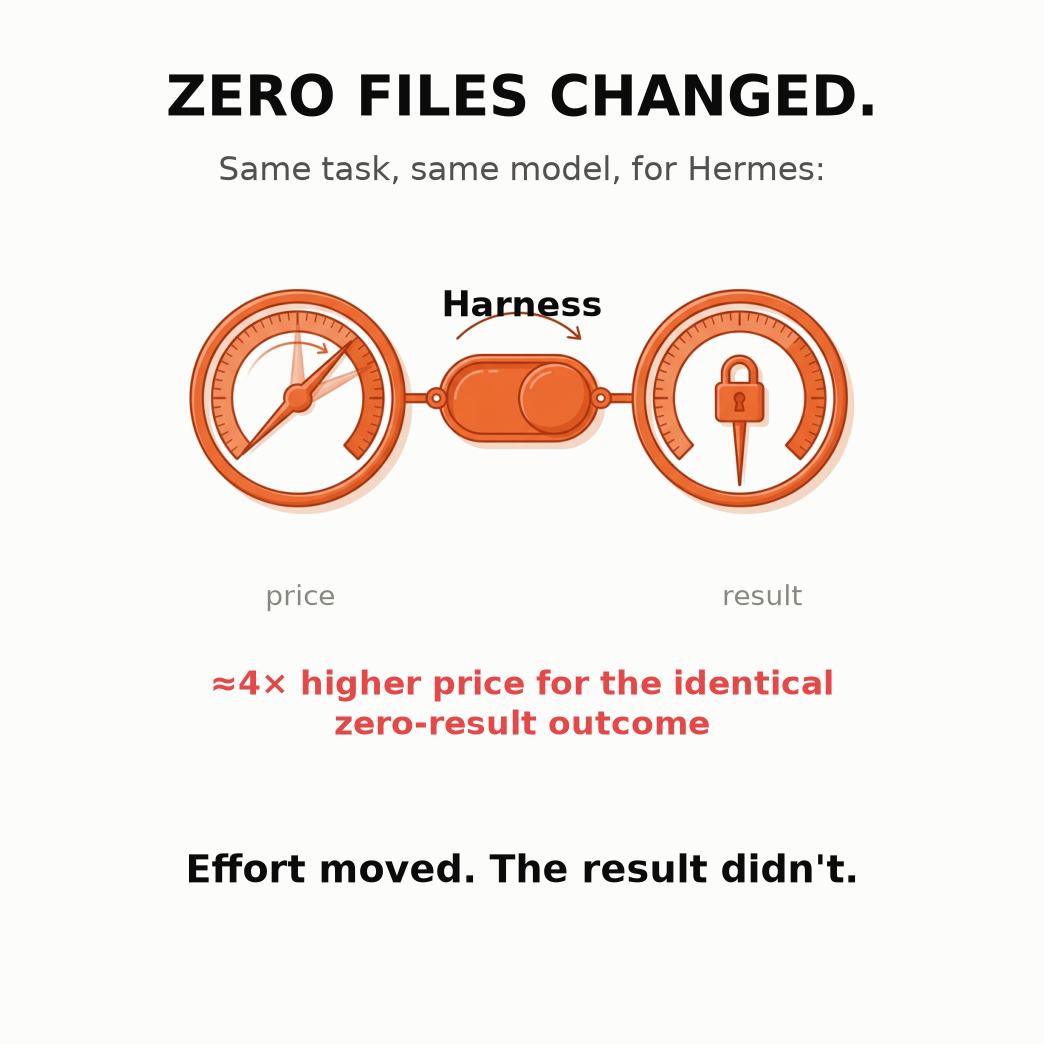
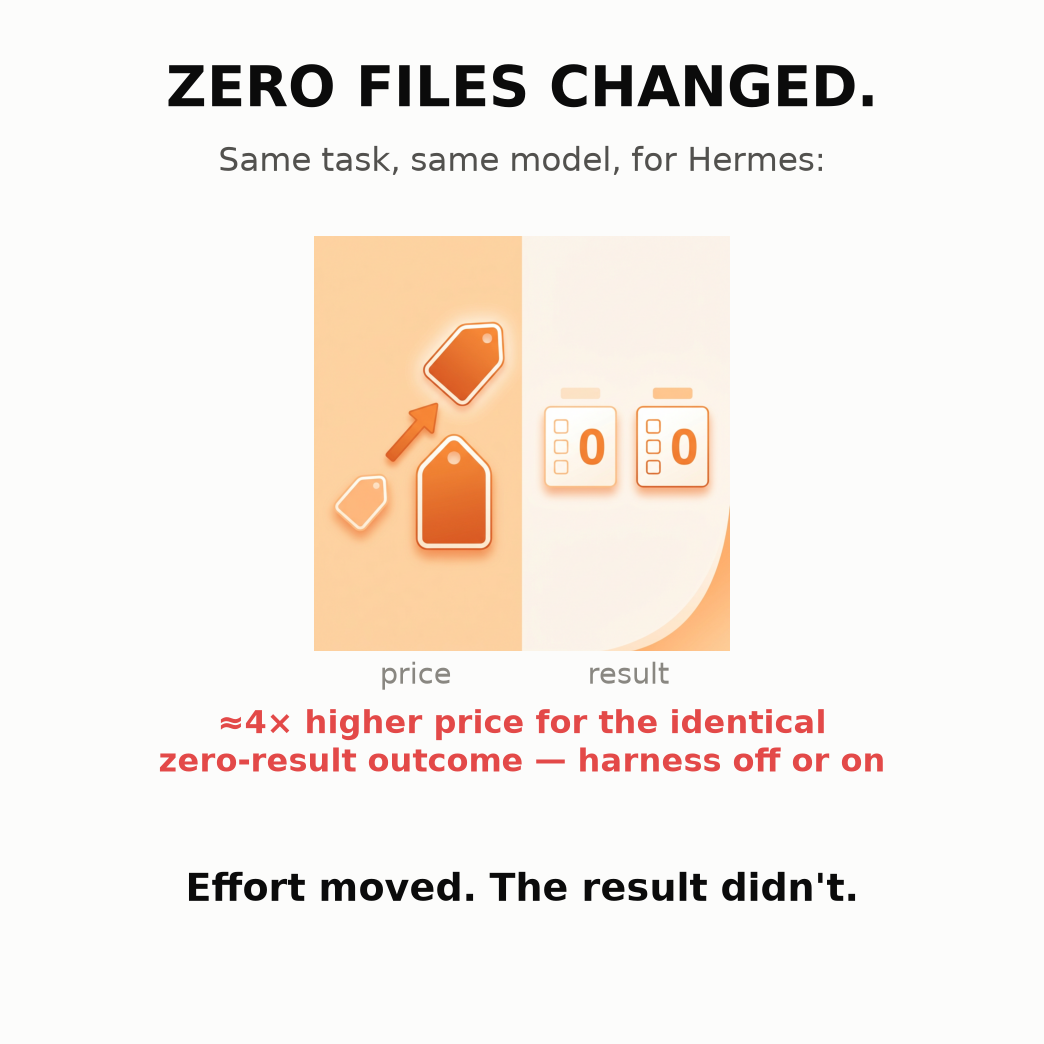
piece(harness-agents-pt1): redo all illustrations around a literal, cold-reader-legible insight
Max's test: for each illustration, what insight is visible, and what would
a reader with zero context understand? Previous round failed it two ways —
the 3 article hero images were pure mood abstraction (ribbons/bands/smoke
with no nameable fact), and cards 1/4/5 leaned on a recycled gauge+switch
grammar where the text carried the meaning, not the picture.

Hero images (assets/hero_begin.png, hero_middle.png, hero_end.png):
- begin: 3 ribbons through the same arch, diverging into straight / knot /
  spiral — same structure in, 3 different outcomes out.
- middle: one button pressed twice (looped arrows), two ribbons out —
  calm wave vs jagged zigzag — same cause, different effect, literally.
- end: 3 ribbons from one braided point, fanning up/down/flat, fading
  into mist — shared origin, 3 directions, open ending.

LinkedIn cards — new scenes, not gauge variants:
- card1: a balance scale + a toggle switch shown flipping OFF->ON. Scale
  stays level either way. Universal "unchanged" symbol, no caption needed.
- card4: price tag shrinking + a 5-star rating, two cards. Caught and
  fixed a real mislabel here: the old card paired Claude Code/Hermes
  (that pairing is about PRICE only, ÷9 vs ÷56) with a quality claim that
  actually belongs to Claude Code vs DeepSeek Harness (dsh was tested only
  on the cheap model, never had a "before" price). Relabeled to the
  correct pair so the image and the caption claim the same thing.
[…]

Changed region(s): [[0.1533, 0.2146, 0.8582, 0.7356], [0.1533, 0.0613, 0.8582, 0.1839], [0.1839, 0.7969, 0.8276, 0.8889]]

diff --git a/pieces/20261106_harness_agents_pt1/linkedin/genart/compose_final.py b/pieces/20261106_harness_agents_pt1/linkedin/genart/compose_final.py
@@ -1,0 +1,100 @@
+#!/usr/bin/env python3
+"""Compose cards 1, 4, 5 with their new literal-scene art + text overlay.
+All three art files are tight RECTANGULAR crops (no alpha matting) — a
+per-pixel color-distance matte fights itself on these pastel/gradient
+renders (either leaves a visible haze, or eats into pale foreground
+fills), so a plain tight crop with a thin cream margin is the reliable
+choice; the margin blends acceptably against the near-white card surface.
+"""
+import matplotlib
+matplotlib.use("Agg")
+import matplotlib.pyplot as plt
+import matplotlib.image as mpimg
+
+BLUE = "#2a78d6"
+ORANGE = "#eb6834"
+AQUA = "#1baf7a"
+RED = "#e34948"
+INK = "#0b0b0b"
+SEC_INK = "#52514e"
+MUTED = "#898781"
+SURFACE = "#fcfcfb"
+
+L = "/home/harness/harness-projects/256/.worktrees/folder-304/session-c792b49e-e286eed0/pieces/20261106_harness_agents_pt1/linkedin"
+G = f"{L}/genart"
+
+
+def art_box(art_path, box_w, cx, cy):
+    art = mpimg.imread(art_path)
+    h, w = art.shape[0], art.shape[1]
+    box_h = box_w * h / w
+    x0, x1 = cx - box_w / 2, cx + box_w / 2
+    y0, y1 = cy - box_h / 2, cy + box_h / 2
+    return art, (x0, x1, y0, y1)
+
+
+def new_fig():
+    fig, ax = plt.subplots(figsize=(6, 6), dpi=200)
+    fig.patch.set_facecolor(SURFACE)
+    ax.set_facecolor(SURFACE)
+    ax.set_xlim(0, 10)
+    ax.set_ylim(0, 10)
+    ax.axis("off")
+    return fig, ax
+
+
+def save(fig, name):
+    fig.savefig(f"{L}/{name}.png", facecolor=SURFACE, bbox_inches="tight", pad_inches=0.3)
+    plt.close(fig)
+    print("wrote", name)
+
+
+# =====================================================================
+# CARD 1 — quality didn't move (balance scale + switch)
+# =====================================================================
+fig, ax = new_fig()
+ax.text(5, 9.6, "SAME AGENT. HARNESS ON vs OFF.", fontsize=13.5, color=MUTED, ha="center", fontweight="bold")
+ax.text(5, 8.85, "One task, 3 agents — the only one\nwhere quality varied at all:", fontsize=12, color=SEC_INK, ha="center")
+
+art, (x0, x1, y0, y1) = art_box(f"{G}/card1_cropped_v4.png", box_w=7.33, cx=5.0, cy=5.75)
+ax.imshow(art, extent=[x0, x1, y0, y1], zorder=2)
+
+ax.text(5, 2.75, "DeepSeek Harness, Claude Code, Hermes —\nflip the switch, the scale doesn't move.", fontsize=11.5, color=SEC_INK, ha="center")
+ax.text(5, 1.2, "Quality didn't move once — for any of the three.", fontsize=13.5, color=INK, ha="center", fontweight="bold")
+save(fig, "card1_quality_flat")
+
+# =====================================================================
+# CARD 4 — cheap model, different payoff (price tag + stars)
+# =====================================================================
+fig, ax = new_fig()
+ax.text(5, 9.5, "SAME MOVE: SWITCH TO THE CHEAPER MODEL.", fontsize=11.5, color=MUTED, ha="center", fontweight="bold")
+ax.text(5, 8.8, "Two different agents, two different payoffs:", fontsize=11.5, color=SEC_INK, ha="center")
+
+art, (x0, x1, y0, y1) = art_box(f"{G}/card4_cropped_v4.png", box_w=6.2, cx=5.0, cy=5.9)
+ax.imshow(art, extent=[x0, x1, y0, y1], zorder=2)
+
+ax.text(2.65, 3.35, "Claude Code\nbill ÷9", fontsize=10.5, color=BLUE, ha="center", fontweight="bold")
+ax.text(7.35, 3.35, "DeepSeek Harness\ncheap model only", fontsize=10, color="#3a8f5a", ha="center", fontweight="bold")
+
+ax.text(5, 2.2, "On the one task we could compare before/after: Claude Code's quality\nfell by half on the cheaper model. DeepSeek Harness still scored full marks.", fontsize=9.8, color=SEC_INK, ha="center")
+ax.text(5, 0.8, "Bigger isn't automatically better. Cheaper isn't automatically worse.", fontsize=12, color=INK, ha="center", fontweight="bold")
+save(fig, "card4_cheap_model")
+
+# =====================================================================
+# CARD 5 — zero changes, higher price (price tag + zero checklist)
+# =====================================================================
+fig, ax = new_fig()
+ax.text(5, 9.5, "ZERO FILES CHANGED.", fontsize=20, color=INK, ha="center", fontweight="bold")
+ax.text(5, 8.8, "Same task, same model, for Hermes:", fontsize=12, color=SEC_INK, ha="center")
+
+art, (x0, x1, y0, y1) = art_box(f"{G}/card5_raw_v3.png", box_w=4.5, cx=5.0, cy=5.85)
+ax.imshow(art, extent=[x0, x1, y0, y1], zorder=2)
+
+ax.text(3.85, 3.25, "price", fontsize=10.5, color=MUTED, ha="center")
+ax.text(6.15, 3.25, "result", fontsize=10.5, color=MUTED, ha="center")
+
+ax.text(5, 2.3, "≈4× higher price for the identical\nzero-result outcome — harness off or on", fontsize=11.5, color=RED, ha="center", fontweight="bold")
+ax.text(5, 0.9, "Effort moved. The result didn't.", fontsize=13.5, color=INK, ha="center", fontweight="bold")
+save(fig, "card5_zero_result")
+
+print("done")

diff --git a/scripts/matte.py b/scripts/matte.py
@@ -1,0 +1,46 @@
+#!/usr/bin/env python3
+"""Alpha-matte a raw AI-generated PNG to transparent background, cropped to content.
+
+Usage: python3 scripts/matte.py <in.png> <out.png> [--precrop N] [--lo L] [--hi H] [--pad P]
+"""
+import argparse
+import numpy as np
+from PIL import Image
+
+ap = argparse.ArgumentParser()
+ap.add_argument("inp")
+ap.add_argument("out")
+ap.add_argument("--precrop", type=int, default=0)
+ap.add_argument("--lo", type=float, default=10.0)
+ap.add_argument("--hi", type=float, default=40.0)
+ap.add_argument("--pad", type=int, default=25)
+ap.add_argument("--thresh", type=float, default=30.0)
+args = ap.parse_args()
+
+img = Image.open(args.inp).convert("RGB")
+arr = np.array(img, dtype=np.float64)
+
+if args.precrop:
+    p = args.precrop
+    arr = arr[p:-p, p:-p]
+
+h, w, _ = arr.shape
+corners = np.stack([arr[0, 0], arr[0, -1], arr[-1, 0], arr[-1, -1]])
+ref = np.median(corners, axis=0)
+
+dist = np.sqrt(((arr - ref) ** 2).sum(axis=2))
+alpha = np.clip((dist - args.lo) / (args.hi - args.lo), 0, 1) * 255
+
+rgba = np.dstack([arr, alpha]).astype(np.uint8)
+out_img = Image.fromarray(rgba, mode="RGBA")
+
+mask = alpha > args.thresh
+ys, xs = np.where(mask)
+if len(xs) == 0:
+    out_img.save(args.out)
+    print("wrote", args.out, "(no crop — fully transparent?)")
+else:
+    x0, x1 = max(0, xs.min() - args.pad), min(w, xs.max() + args.pad)
+    y0, y1 = max(0, ys.min() - args.pad), min(h, ys.max() + args.pad)
+    out_img.crop((x0, y0, x1, y1)).save(args.out)
+    print("wrote", args.out, f"cropped to {x1-x0}x{y1-y0}")

diff --git a/scripts/gen_image.py b/scripts/gen_image.py
@@ -1,0 +1,35 @@
+#!/usr/bin/env python3
+"""Generic OpenRouter image-generation helper, reused across pieces.
+
+Usage: python3 scripts/gen_image.py <model> <size> <out.png> <<< "prompt text"
+   or: python3 scripts/gen_image.py <model> <size> <out.png> "prompt text"
+"""
+import base64
+import json
+import os
+import sys
+import urllib.request
+
+model = sys.argv[1]
+size = sys.argv[2]
+out_path = sys.argv[3]
+prompt = sys.argv[4] if len(sys.argv) > 4 else sys.stdin.read()
+
+key = os.environ.get("OPENROUTER_API_KEY")
+if not key:
+    sys.exit("OPENROUTER_API_KEY not set in environment")
+
+body = json.dumps({"model": model, "prompt": prompt, "n": 1, "size": size}).encode()
+req = urllib.request.Request(
+    "https://openrouter.ai/api/v1/images/generations",
+    data=body,
+    headers={"Authorization": f"Bearer {key}", "Content-Type": "application/json"},
+    method="POST",
+)
+with urllib.request.urlopen(req, timeout=180) as resp:
+    data = json.load(resp)
+
+b64 = data["data"][0]["b64_json"]
+with open(out_path, "wb") as f:
+    f.write(base64.b64decode(b64))
+print("wrote", out_path)
